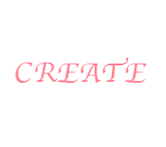
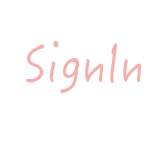
third ui

Changed region(s): [[0.0904, 0.2993, 0.9036, 0.6531], [0.3012, 0.2721, 0.3614, 0.3265]]

diff --git a/src/main/java/presentation/loginui/login.css b/src/main/java/presentation/loginui/login.css
@@ -30,3 +30,23 @@
 #exit:pressed{
 	-fx-background-image:url("../../img/login/exit.png");
 }
+
+#visit{
+	-fx-background-image:url("../../img/login/visit.png");	
+}
+#visit:hover{
+	-fx-background-image:url("../../img/login/visit.png");
+}
+#visit:pressed{
+	-fx-background-image:url("../../img/login/visit.png");
+}
+
+#login{
+	-fx-background-image:url("../../img/login/login.png");	
+}
+#login:hover{
+	-fx-background-image:url("../../img/login/login.png");
+}
+#login:pressed{
+	-fx-background-image:url("../../img/login/login.png");
+}

diff --git a/src/main/java/presentation/loginui/signin.css b/src/main/java/presentation/loginui/signin.css
@@ -4,11 +4,11 @@ To change this template file, choose Tools | Templates
 and open the template in the editor.
 */
 /* 
-    Created on : 2016-11-27, 6:32:00
+    Created on : 2016-11-27, 11:11:03
     Author     : apple
 */
 
-.root{
-  -fx-background-image: url("../../img/manageui/背景.jpg");
- }
+ .root{
+	-fx-background-image: url("../../img/login/signin.jpg");
+}
        

diff --git a/src/main/java/presentation/loginui/LoginController.java b/src/main/java/presentation/loginui/LoginController.java
@@ -6,10 +6,14 @@ import java.util.ResourceBundle;
 
 import javafx.event.ActionEvent;
 import javafx.fxml.FXML;
+import javafx.fxml.FXMLLoader;
 import javafx.fxml.Initializable;
+import javafx.scene.Parent;
+import javafx.scene.Scene;
 import javafx.scene.control.Button;
 import javafx.scene.control.PasswordField;
 import javafx.scene.control.TextField;
+import javafx.stage.Stage;
 import javafx.stage.Window;
 import presentation.utilui.WindowGrab;
 
@@ -30,7 +34,16 @@ public class LoginController implements Initializable{
 	public void signin(ActionEvent event) {
 		Window window = WindowGrab.getWindow(event);
 		try {
-			WindowGrab.startWindow(window, getClass().getResource("signin.fxml"));
+//			WindowGrab.startWindow(window, getClass().getResource("signin.fxml"));
+			Stage primaryStage=new Stage();
+			Parent root = FXMLLoader.load(getClass().getResource("signin.fxml"));
+			Scene scene = new Scene(root);
+			scene.getStylesheets().add(Login.class.getResource("signin.css").toExternalForm());
+			primaryStage.setTitle("SignIn");
+			
+			primaryStage.setScene(scene);
+			primaryStage.centerOnScreen();
+			primaryStage.show();
 		} catch (IOException e) {
 			e.printStackTrace();
 		}

diff --git a/src/main/java/presentation/loginui/SigninController.java b/src/main/java/presentation/loginui/SigninController.java
@@ -38,6 +38,9 @@ public class SigninController implements Initializable{
 	public void cancel(ActionEvent event) {
 		WindowGrab.closeWindow(event);
 	}
-	
+	@FXML
+    void b22e2e(ActionEvent event) {
+
+    }
 
 }
